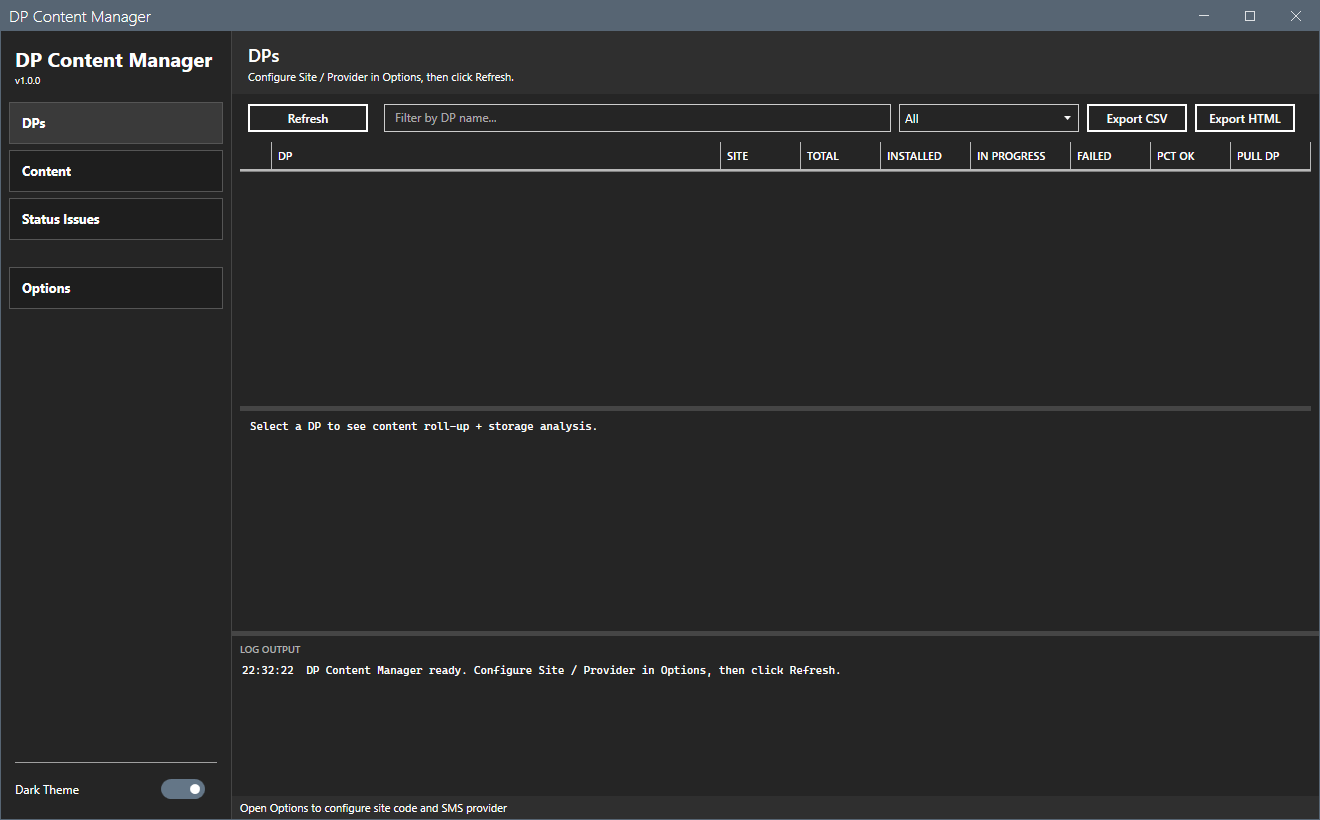
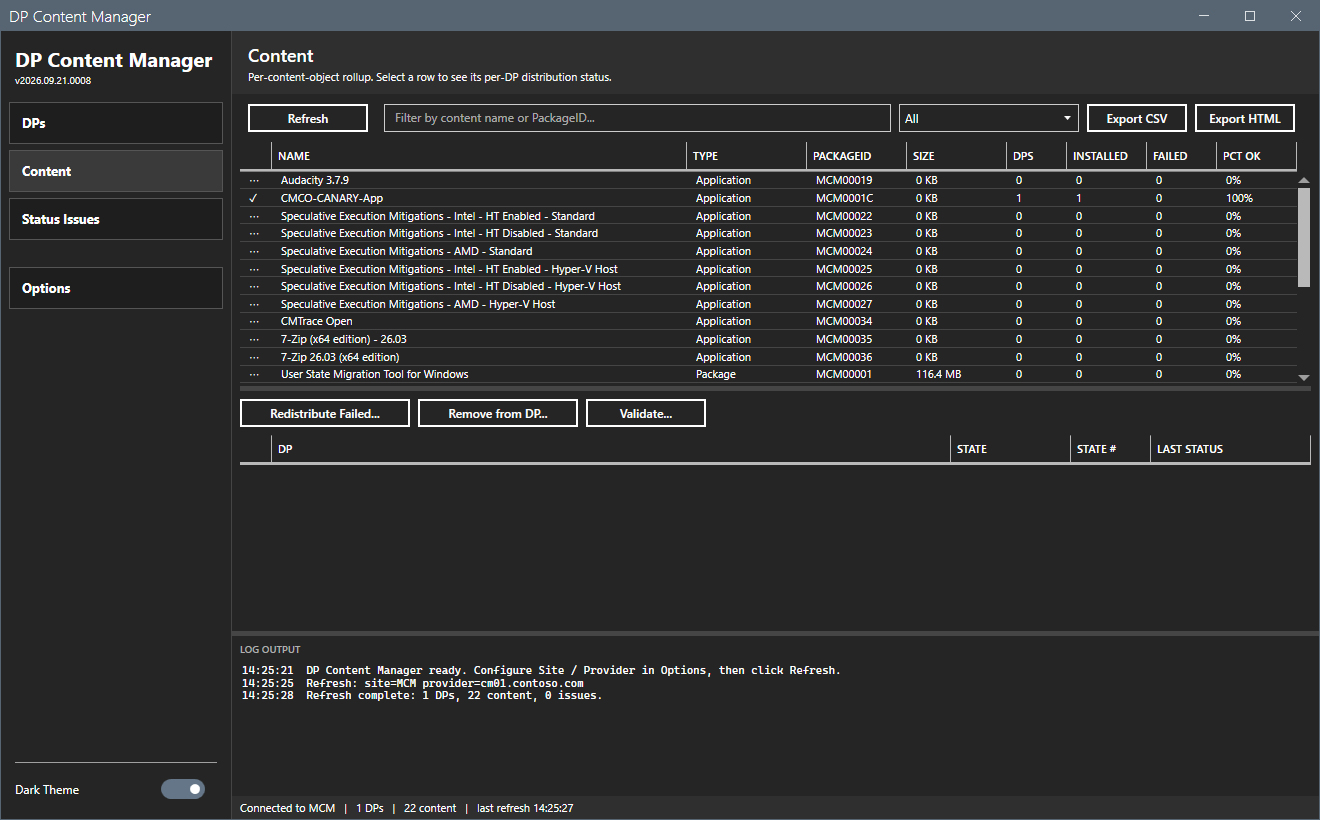
Use the launcher site code and provider when none is saved; update the screenshot; 2026.09.21.0008

diff --git a/CHANGELOG.md b/CHANGELOG.md
@@ -2,6 +2,16 @@
 
 All notable changes to DP Content Manager are documented in this file.
 
+## [2026.09.21.0008] - 2026-09-21
+
+### Fixed
+
+- Use the site code and provider from the suite launcher when the tool has none saved.
+
+### Changed
+
+- Update the README screenshot.
+
 ## [2026.09.21.0007] - 2026-09-21
 
 ### Changed
